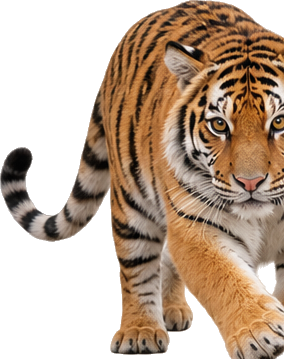
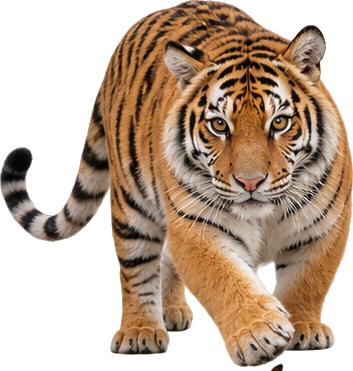
Fix cut-off tiger, hide floating header on card maker, add full asonde top code with card
Claude-Session: https://claude.ai/code/session_01TCRPV7fohktLwWF6WC9mVd

diff --git a/site/asonde/ngmintest.html b/site/asonde/ngmintest.html
@@ -1,0 +1,53 @@
+<!doctype html><html><head><meta charset="utf-8"><meta name="viewport" content="width=device-width,initial-scale=1"></head><body style="margin:0"><style>.l-header,.l-fixHeader,.l-footer,.p-breadcrumb,.l-header__bar,.p-fixBtnWrap,.l-page__mv,.c-pageTitle{display:none!important}body,.l-page,.l-container,.l-content{padding-top:0!important;margin-top:0!important}.ng{--teal:#2d7694;--teal-dark:#1c5468;--coral:#f0655a;--coral-dark:#d94b41;--tint:#eaf3f4;--ink:#2b3b42;--soft:#586a70;--red:#c8312b;--disp:"Zen Maru Gothic","M PLUS Rounded 1c","Hiragino Maru Gothic ProN",sans-serif;font-family:var(--disp);color:var(--ink);max-width:980px;margin:0 auto;padding:20px 14px 10px;box-sizing:border-box}.ng *{box-sizing:border-box}.ng [hidden]{display:none!important}.ng-head{background:linear-gradient(135deg,#d94b41,#c8312b);color:#fff;border-radius:24px;padding:20px 22px;text-align:center;margin-bottom:16px}.ng-head a{color:#fff;font-size:11px;text-decoration:underline}.ng-head .ng-logo{font-size:.72rem;letter-spacing:.2em;font-weight:700;margin-top:6px}.ng-head h1{margin:6px 0 2px;font-size:1.35rem;font-weight:800;color:#fff;background:none;padding:0;border:none}.ng-head h1::before,.ng-head h1::after{display:none}.ng-head p{margin:4px 0 0;font-size:.82rem;line-height:1.6}.ng-studio{display:grid;grid-template-columns:1fr;gap:16px}@media(min-width:760px){.ng-studio{grid-template-columns:360px 1fr;align-items:start}.ng-preview{position:sticky;top:calc(var(--wp-admin--admin-bar--height,0px) + 12px)}}.ng-preview{background:#fff;border-radius:18px;padding:14px;box-shadow:0 6px 18px rgba(0,0,0,.06);text-align:center}.ng-preview canvas{width:100%;max-width:340px;height:auto;border-radius:6px;box-shadow:0 4px 14px rgba(0,0,0,.18);background:#fff5e6}.ng-panel{background:#fff;border-radius:18px;padding:16px 18px;box-shadow:0 6px 18px rgba(0,0,0,.06)}.ng-step{margin-bottom:18px}.ng-step h3{font-size:.95rem;margin:0 0 8px;display:flex;align-items:center;gap:8px;padding:0;background:none;border:none;color:var(--ink)}.ng-step h3::before,.ng-step h3::after{display:none}.ng-step h3 .n{display:inline-grid;place-items:center;width:24px;height:24px;border-radius:50%;background:var(--coral);color:#fff;font-size:.8rem;flex:0 0 24px}.ng-step h3 .opt{font-size:.72rem;color:var(--soft);font-weight:600}.ng-chips{display:flex;flex-wrap:wrap;gap:8px}.ng-chip{border:2px solid var(--tint);background:#fff;border-radius:12px;padding:8px 10px;font:700 .86rem var(--disp);color:var(--ink);cursor:pointer;line-height:1.3;text-align:center}.ng-chip:hover{border-color:var(--teal)}.ng-chip.on{border-color:var(--coral);background:#fff1ef}.ng-chip small{display:block;font-weight:600;color:var(--soft);font-size:.72rem}.ng-chip img{display:block;height:46px;margin:0 auto 2px}.ng-bg .ng-chip{padding:5px;width:92px;font-size:.7rem}.ng-bg .ng-chip img{width:80px;height:118px;object-fit:cover;border-radius:6px}.ng input[type=text]{width:100%;border:2px solid var(--tint);border-radius:12px;padding:10px 12px;font:700 1rem var(--disp)}.ng-file{display:inline-block;border:2px dashed var(--teal);border-radius:12px;padding:10px 14px;color:var(--teal);font-weight:800;cursor:pointer}.ng-file input{display:none}.ng-btns{display:flex;flex-wrap:wrap;gap:8px;margin-top:6px}.ng-btn{display:inline-block;text-decoration:none!important;border:none;border-radius:999px;padding:12px 18px;font:800 .95rem var(--disp);cursor:pointer;color:#fff!important;background:var(--coral)}.ng-btn.teal{background:var(--teal)}.ng-btn.line{background:#06c755}.ng-btn.wa{background:#25d366}.ng-btn.ghost{background:#fff;color:var(--teal)!important;border:2px solid var(--teal)}.ng-hint{font-size:.78rem;color:var(--soft);margin:6px 0 0;line-height:1.6}.ng-ja{font-size:1.1rem;font-weight:800}.ng-msg{margin-top:8px;font-size:.82rem;color:var(--teal-dark);font-weight:700;min-height:1.2em}.ng-share{background:#fff;border-radius:18px;padding:18px;margin-top:16px;box-shadow:0 6px 18px rgba(0,0,0,.06);text-align:center}.ng-share-t{font-weight:800;margin:0 0 8px;line-height:1.5}.ng-share-t small{font-weight:600;color:var(--soft)}.ng-share .ng-btns{justify-content:center}.ng-btn.fb{background:#1877f2}.ng-btn.x{background:#111}#ngPrint{display:none}@media print{body *{visibility:hidden}#ngPrint,#ngPrint *{visibility:visible}#ngPrint{position:fixed;inset:0;display:block!important}#ngPrint img{width:100mm;height:148mm}}</style>
+<div class="ng">
+  <div class="ng-head">
+    <a href="/asonde/">← あそんでみよう トップに もどる</a>
+    <div class="ng-logo">TOMODACHI JAPAN</div>
+    <h1>🎍 ねんがじょうを つくろう</h1>
+    <p>Make a Japanese New Year card (nengajo)!<br>えらぶだけで かんせい。<b>かぞくの しゃしんも いれられるよ！</b><br>じいじやばあば、ともだちにも おくれるよ。</p>
+  </div>
+  <div class="ng-studio">
+    <div class="ng-preview"><canvas id="ngCv" width="1000" height="1480"></canvas></div>
+    <div class="ng-panel">
+      <div class="ng-step"><h3><span class="n">1</span>はいけい Background</h3><div class="ng-chips ng-bg" id="ngBg"></div></div>
+      <div class="ng-step"><h3><span class="n">2</span>ことば Message</h3><div class="ng-chips" id="ngMsg"></div>
+        <p class="ng-hint" id="ngRomaji"></p></div>
+      <div class="ng-step"><h3><span class="n">3</span>ことしの どうぶつ Animal of the year</h3><div class="ng-chips" id="ngEto"></div>
+        <p class="ng-hint">2027ねんは ひつじ（未）の としです。 2027 is the Year of the Sheep.</p></div>
+      <div class="ng-step"><h3><span class="n">4</span>だれに おくる？ To <span class="opt">（なくてもOK）</span></h3><div class="ng-chips" id="ngTo"></div></div>
+      <div class="ng-step"><h3><span class="n">5</span>しゃしん Photo <span class="opt">（すきな しゃしんを いれてね・なくてもOK）</span></h3>
+        <label class="ng-file">📷 しゃしんを いれる<input type="file" accept="image/*" id="ngPhoto"></label>
+        <button class="ng-btn ghost" id="ngPhotoDel" hidden>しゃしんを はずす</button>
+        <p class="ng-hint">しゃしんは あなたの きかいの なかだけで つかわれます。どこにも おくられません。</p></div>
+      <div class="ng-step"><h3><span class="n">6</span>かざり Decoration <span class="opt">（なくてもOK）</span></h3><div class="ng-chips" id="ngDeco"></div></div>
+      <div class="ng-step"><h3><span class="n">7</span>なまえ Your name</h3><input type="text" id="ngName" placeholder="Emma / えま" maxlength="14"></div>
+      <div class="ng-step"><h3><span class="n">8</span>ほぞん・おくる Save &amp; Send</h3>
+        <div class="ng-btns" id="ngOut"></div>
+        <div class="ng-msg" id="ngOutMsg"></div>
+        <p class="ng-hint">🍎 For teachers: free to use in your classroom. Print on postcard size.（じゅぎょうで じゆうに つかえます）</p></div>
+    </div>
+  </div>
+  <div class="ng-share">
+    <p class="ng-share-t">このページを ともだちに おしえる<br><small>Share this page with friends &amp; teachers</small></p>
+    <div class="ng-btns" id="ngShare"></div>
+    <div class="ng-msg" id="ngShareMsg"></div>
+  </div>
+</div>
+<div id="ngPrint"></div>
+<script>!function(){var e="upload/",t=1e3,n=1480,o=2027,a='"Hiragino Mincho ProN","Yu Mincho","Noto Serif JP",serif',i='"Zen Maru Gothic","Hiragino Maru Gothic ProN","Yu Gothic","Noto Sans JP",sans-serif',l=[{id:"bg-fuji",l:"ふじさん"},{id:"bg-washi",l:"うめの わがら"},{id:"bg-byobu",l:"きんの びょうぶ"},{id:"bg-hatsumode",l:"はつもうで"},{id:"bg-umi",l:"うみの ひので"},{id:"bg-fuji-e",l:"ふじさん（え）"}],r=[{en:"Happy New Year!",ja:"あけまして おめでとう",ro:"akemashite omedetou"},{en:"Thank you for last year",ja:"きょねんは ありがとう",ro:"kyonen wa arigatou"},{en:"Let’s be friends this year too",ja:"ことしも なかよくしてね",ro:"kotoshi mo nakayoku shite ne"},{en:"Let’s play together",ja:"いっしょに あそぼうね",ro:"issho ni asobou ne"},{en:"Stay healthy",ja:"げんきで いてね",ro:"genki de ite ne"},{en:"See you soon",ja:"また あおうね",ro:"mata aou ne"},{en:"I love you",ja:"だいすき",ro:"daisuki"}],c={bg:"bg-fuji",msg:r[0],eto:"hitsuji",to:"",photo:null,deco:"kadomatsu",name:""},d=document.getElementById("ngCv"),u=d.getContext("2d"),g={};function m(t){return g[t]||(g[t]=new Image,g[t].onload=b,g[t].src=e+"ng-"+t+".webp"),g[t]}function s(e){return e.complete&&e.naturalWidth}function h(e,t,n,o){var a=m(e);if(s(a)){var i=o*a.naturalWidth/a.naturalHeight;u.drawImage(a,t-i/2,n-o/2,i,o)}}function f(e,t,n,o,a){u.beginPath(),u.moveTo(e+a,t),u.arcTo(e+n,t,e+n,t+o,a),u.arcTo(e+n,t+o,e,t+o,a),u.arcTo(e,t+o,e,t,a),u.arcTo(e,t,e+n,t,a),u.closePath()}function p(e,t,n,o){u.save(),u.fillStyle="#c8312b",f(t-o/2,n-o/2,o,o,.12*o),u.fill(),u.fillStyle="#fff",u.textAlign="center",u.textBaseline="middle",4===e.length?(u.font="bold "+.36*o+"px "+a,u.fillText(e[0],t+.21*o,n-.2*o),u.fillText(e[1],t+.21*o,n+.2*o),u.fillText(e[2],t-.21*o,n-.2*o),u.fillText(e[3],t-.21*o,n+.2*o)):(u.font="bold "+.4*o+"px "+a,u.fillText(e[0],t,n-.21*o),u.fillText(e[1],t,n+.22*o)),u.restore()}function v(e,t,n,o,a,i){var l=o;do{u.font="bold "+l+"px "+a,l-=4}while(i&&u.measureText(e).width>i&&l>24);u.save(),u.textAlign="center",u.textBaseline="middle",u.lineJoin="round",u.lineWidth=Math.max(8,.16*l),u.strokeStyle="rgba(255,255,255,.92)",u.strokeText(e,t,n),u.fillStyle="#2b2b2b",u.fillText(e,t,n),u.restore()}function b(){var e=m(c.bg);if(s(e)){var l=Math.max(t/e.naturalWidth,n/e.naturalHeight);u.drawImage(e,(t-e.naturalWidth*l)/2,(n-e.naturalHeight*l)/2,e.naturalWidth*l,e.naturalHeight*l)}else u.fillStyle="#fff5e6",u.fillRect(0,0,t,n);var d,g=!(!c.to&&!c.photo);if(c.to&&v(c.to+" へ",300,150,76,i,470),g?p("謹賀新年",830,185,230):p("謹賀新年",500,330,300),c.photo){var b="bg-hatsumode"===c.bg?{x:40,y:600,w:920,h:400}:{x:110,y:330,w:780,h:540};!function(e,t,n,o,a){var i=c.photo;u.save(),f(e,t,n,o,a),u.clip();var l=Math.max(n/i.width,o/i.height);u.drawImage(i,e+(n-i.width*l)/2,t+(o-i.height*l)/2,i.width*l,i.height*l),u.restore(),u.lineWidth=12,u.strokeStyle="#fff",f(e,t,n,o,a),u.stroke()}(b.x,b.y,b.w,b.h,36),d=b.y+b.h+85,h(c.eto,130,1360,190)}else h(c.eto,500,g?620:680,360),d=950;var y=c.msg===r[0];v("あけまして おめでとう",500,d,96,i,840),y||(d+=102,v(c.msg.ja,500,d,80,i,820)),d+=70,v(c.msg.ro,500,d,40,i,800),d+=48,v(c.msg.en,500,d,40,i,800),c.photo||v(o+"ねん がんたん",500,d+=92,54,a),c.name&&(d+=92,v(c.name+" より",500,d,70,i,520)),c.deco&&h(c.deco,870,1320,250)}function y(e,t,n,o,a){t.forEach(function(t,i){var l=document.createElement("button");l.type="button",l.className="ng-chip"+(i===a?" on":""),l.innerHTML=n(t),l.onclick=function(){e.querySelectorAll(".ng-chip").forEach(function(e){e.classList.remove("on")}),l.classList.add("on"),o(t),b()},e.appendChild(l)})}function w(t){return'<img src="'+e+"ng-"+t+'.webp" alt="" loading="lazy">'}var x=document.getElementById("ngRomaji");function k(){x.innerHTML='<span class="ng-ja">'+c.msg.ja+"</span><br>"+c.msg.ro}y(document.getElementById("ngBg"),l,function(e){return w(e.id)+e.l},function(e){c.bg=e.id},0),y(document.getElementById("ngMsg"),r,function(e){return e.en+"<small>"+e.ja+"</small>"},function(e){c.msg=e,k()},0),y(document.getElementById("ngEto"),[{id:"ne",l:"ねずみ Rat"},{id:"ushi",l:"うし Ox"},{id:"tora",l:"とら Tiger"},{id:"u",l:"うさぎ Rabbit"},{id:"tatsu",l:"たつ Dragon"},{id:"mi",l:"へび Snake"},{id:"uma",l:"うま Horse"},{id:"hitsuji",l:"ひつじ Sheep"},{id:"saru",l:"さる Monkey"},{id:"tori",l:"とり Rooster"},{id:"inu",l:"いぬ Dog"},{id:"i",l:"いのしし Boar"}],function(e){return w(e.id)+"<small>"+e.l+"</small>"},function(e){c.eto=e.id},7),y(document.getElementById("ngTo"),[{v:"",l:"なし None"},{v:"ばあば",l:"ばあば"},{v:"じいじ",l:"じいじ"},{v:"じいじ ばあば",l:"じいじ ばあば"},{v:"おばあちゃん",l:"おばあちゃん"},{v:"おじいちゃん",l:"おじいちゃん"},{v:"せんせい",l:"せんせい Teacher"},{v:"みんな",l:"みんな Everyone"}],function(e){return e.l},function(e){c.to=e.v},0),y(document.getElementById("ngDeco"),[{id:"",l:"なし"},{id:"kadomatsu",l:"かどまつ"},{id:"kagamimochi",l:"かがみもち"},{id:"tako",l:"たこ"},{id:"hagoita",l:"はごいた"},{id:"daruma",l:"だるま"},{id:"ume",l:"うめ"},{id:"shishimai",l:"ししまい"}],function(e){return(e.id?w(e.id):"")+"<small>"+e.l+"</small>"},function(e){c.deco=e.id},1),document.getElementById("ngName").oninput=function(){c.name=this.value.trim(),b()};var E=document.getElementById("ngPhotoDel");document.getElementById("ngPhoto").onchange=function(){var e=this.files&&this.files[0];if(e){var t=new Image;t.onload=function(){c.photo=t,E.hidden=!1,b()},t.src=URL.createObjectURL(e)}},E.onclick=function(){c.photo=null,E.hidden=!0,document.getElementById("ngPhoto").value="",b()};var I=document.getElementById("ngOut"),j=document.getElementById("ngOutMsg");function T(e){window.gtag&&gtag("event","nengajo_make",{method:e,background:c.bg,animal:c.eto})}function B(e,t){var n=document.createElement("button");return n.type="button",n.className="ng-btn "+e,n.textContent=t,I.appendChild(n),n}function C(){var e=document.createElement("a");e.download="nengajo-2027.png",e.href=d.toDataURL("image/png"),e.click()}B("","💾 がぞうを ほぞん Save").onclick=function(){C(),T("save"),j.textContent="ほぞんしました！ Saved!"},B("teal","📨 おくる Send").onclick=function(){d.toBlob(function(e){var t=new File([e],"nengajo-2027.png",{type:"image/png"});navigator.canShare&&navigator.canShare({files:[t]})?(navigator.share({files:[t],text:(c.to?c.to+" へ　":"")+"あけまして おめでとう！"}).catch(function(){}),T("share")):(C(),T("save"),j.textContent="がぞうを ほぞんしました。LINEなどで おくってね。 Saved — send it with your app.")},"image/png")},B("ghost","🖨 いんさつ Print").onclick=function(){document.getElementById("ngPrint").innerHTML='<img src="'+d.toDataURL("image/png")+'" alt="">',T("print"),setTimeout(function(){window.print()},150)};var S=document.getElementById("ngShare"),M=document.getElementById("ngShareMsg");function N(e){return"https://tomodachi-japan.nijin.co.jp/asonde-nengajo/?utm_source="+e+"&utm_medium=share&utm_campaign=nengajo"}var R="子どもが作れる日本の年賀状メーカー（無料）Make a Japanese New Year card! ";[["line","LINE","https://social-plugins.line.me/lineit/share?url="+encodeURIComponent(N("line"))],["wa","WhatsApp","https://wa.me/?text="+encodeURIComponent(R+N("whatsapp"))],["fb","Facebook","https://www.facebook.com/sharer/sharer.php?u="+encodeURIComponent(N("facebook"))],["x","X","https://twitter.com/intent/tweet?text="+encodeURIComponent(R)+"&url="+encodeURIComponent(N("x"))]].forEach(function(e){var t=document.createElement("a");t.className="ng-btn "+e[0],t.textContent=e[1],t.href=e[2],t.target="_blank",t.rel="noopener",t.onclick=function(){window.gtag&&gtag("event","nengajo_share_page",{method:e[0]})},S.appendChild(t)});var L=document.createElement("button");L.type="button",L.className="ng-btn ghost",L.textContent="🔗 リンクを コピー Copy link",L.onclick=function(){var e=N("copy");navigator.clipboard?navigator.clipboard.writeText(e).then(function(){M.textContent="コピーしました！ Copied!"},function(){M.textContent=e}):M.textContent=e,window.gtag&&gtag("event","nengajo_share_page",{method:"copy"})},S.appendChild(L),l.forEach(function(e){m(e.id)}),m(c.eto),m(c.deco),k(),b()}();</script>
+<section class="tjp-wrap">
+  <span class="tjp-eyebrow">FOR PARENTS</span>
+  <h2 class="tjp-title">保護者の方へ</h2>
+  <p class="tjp-lead">背景・ことば・干支・写真を選ぶだけで、日本の年賀状が作れます。英語を選ぶと日本語とローマ字が入るので、日本語を読み始めたばかりの子や、海外の学校の授業でも使えます。</p>
+  <ul class="tjp-points">
+    <li><strong>身につくこと</strong>お正月のあいさつと、日本の年賀状・干支の文化。自分の名前を入れて「日本語で書いた」体験になります。</li>
+    <li><strong>遊び方のコツ</strong>できた年賀状を、日本のおじいちゃん・おばあちゃんにLINEで送ってみてください。お返事が、次の日本語のきっかけになります。</li>
+    <li><strong>こんな子に</strong>日本の家族とつながりたい子、日本の文化にふれてほしい子に。お子さまやご家族の写真も入れられます（写真は端末の中だけで使われ、どこにも送信されません）。</li>
+  </ul>
+  <div class="tjp-cta-wrap">
+    <a class="tjp-cta" href="/waitlist/?utm_source=asonde&amp;utm_medium=nengajo&amp;utm_campaign=asonde-shiryou">📩 学校案内を受け取る（無料・1分）</a>
+    <p class="tjp-note">ともだちじゃぱんは、海外に住む子どもが日本の同世代と毎日日本語で話す、オンラインの学校です。</p>
+  </div>
+  <p class="tjp-more">ほかのゲームでも遊んでみよう<br><a href="/asonde-kanji-game/">漢字クイズ</a> <a href="/asonde-kotoba-quiz/">ことばクイズ</a> <a href="/asonde-nante-iu/">なんていう？クイズ</a> <a href="/asonde-nihon-bunka/">日本文化クイズ</a> <a href="/asonde/">あそんでみよう トップ</a></p>
+</section>
+<style>.tjp-wrap{max-width:720px;margin:40px auto 56px;padding:32px 28px 28px;background:#fff;border-radius:20px;box-shadow:0 6px 16px rgba(0,0,0,.08);font-family:inherit;color:#2b3b42;box-sizing:border-box}.tjp-wrap *{box-sizing:border-box}.tjp-eyebrow{display:block;text-align:center;font-size:11px;font-weight:700;letter-spacing:.12em;color:#f0655a;margin-bottom:6px}.tjp-title{background:none!important;border:none!important;padding:0!important;margin:0 0 14px!important;text-align:center;font-size:clamp(20px,3vw,24px)!important;font-weight:800;color:#2b3b42!important}.tjp-title::before,.tjp-title::after{display:none!important}.tjp-lead{font-size:14px;line-height:1.9;color:#586a70;margin:0 0 20px}.tjp-points{list-style:none!important;margin:0 0 24px!important;padding:0!important;display:grid;grid-template-columns:repeat(3,1fr);gap:12px}.tjp-points li{margin:0!important;padding:14px!important;background:#eaf3f4;border-radius:12px;font-size:12px;line-height:1.7;color:#586a70}.tjp-points li::before{display:none!important}.tjp-points strong{display:block;font-size:14px;color:#2b3b42;margin-bottom:4px}.tjp-cta-wrap{text-align:center}.tjp-cta{display:inline-block;padding:14px 28px;border-radius:999px;background:#f0655a;color:#fff!important;font-size:15px;font-weight:800;text-decoration:none!important;box-shadow:0 6px 14px rgba(240,101,90,.35)}.tjp-note{margin:10px 0 0;font-size:12px;color:#586a70;text-align:center}.tjp-more{margin:24px 0 0;padding-top:18px;border-top:1px solid #eee;text-align:center;font-size:13px;color:#586a70}.tjp-more a{display:inline-block;margin:4px 6px;padding:6px 12px;border-radius:999px;background:#fff5e1;color:#2b3b42!important;text-decoration:none!important;font-weight:700}.tjp-wrap .nw{display:inline-block}@media (max-width:640px){.tjp-wrap{margin:32px 16px 48px;padding:26px 18px 22px}.tjp-points{grid-template-columns:1fr}}</style></body></html>

diff --git a/site/asonde/nengajo/nengajo-maker.html b/site/asonde/nengajo/nengajo-maker.html
@@ -1,5 +1,5 @@
 <style>
-.l-header,.l-footer,.p-breadcrumb,.l-header__bar,.p-fixBtnWrap,.l-page__mv,.c-pageTitle{display:none!important}
+.l-header,.l-fixHeader,.l-footer,.p-breadcrumb,.l-header__bar,.p-fixBtnWrap,.l-page__mv,.c-pageTitle{display:none!important}
 body,.l-page,.l-container,.l-content{padding-top:0!important;margin-top:0!important}
 .ng{--teal:#2d7694;--teal-dark:#1c5468;--coral:#f0655a;--coral-dark:#d94b41;--tint:#eaf3f4;--ink:#2b3b42;--soft:#586a70;--red:#c8312b;
   --disp:"Zen Maru Gothic","M PLUS Rounded 1c","Hiragino Maru Gothic ProN",sans-serif;
@@ -13,7 +13,7 @@ body,.l-page,.l-container,.l-content{padding-top:0!important;margin-top:0!import
 .ng-head h1::before,.ng-head h1::after{display:none}
 .ng-head p{margin:4px 0 0;font-size:.82rem;line-height:1.6}
 .ng-studio{display:grid;grid-template-columns:1fr;gap:16px}
-@media(min-width:760px){.ng-studio{grid-template-columns:360px 1fr;align-items:start}.ng-preview{position:sticky;top:12px}}
+@media(min-width:760px){.ng-studio{grid-template-columns:360px 1fr;align-items:start}.ng-preview{position:sticky;top:calc(var(--wp-admin--admin-bar--height,0px) + 12px)}}
 .ng-preview{background:#fff;border-radius:18px;padding:14px;box-shadow:0 6px 18px rgba(0,0,0,.06);text-align:center}
 .ng-preview canvas{width:100%;max-width:340px;height:auto;border-radius:6px;box-shadow:0 4px 14px rgba(0,0,0,.18);background:#fff5e6}
 .ng-panel{background:#fff;border-radius:18px;padding:16px 18px;box-shadow:0 6px 18px rgba(0,0,0,.06)}
